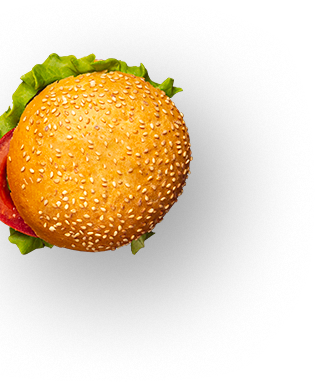
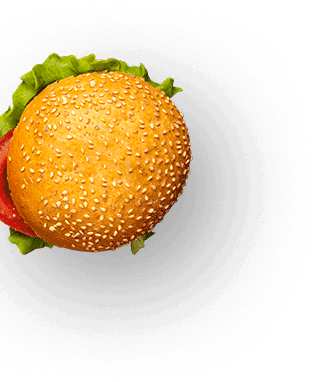
changes

diff --git a/index.html b/index.html
@@ -83,7 +83,7 @@
             <div class="row">
                 <div class="col-lg-6 product-left">
                     <div class="product-imgt imgd">
-                        <img src="images/Burger%20Image.png" alt="">
+                        <img src="images/Burger-Image.jpg" alt="">
                     </div>
                     <div class="product-content">
                         <h2>Try it today</h2>
@@ -92,7 +92,7 @@
                 </div>
                 <div class="col-lg-6 product-right">
                     <div class="product-item imgd">
-                        <img src="images/Image2.png" alt="">
+                        <img src="images/Image2.jpg" alt="">
                     </div>
 
                     <div class="product-content2">
@@ -101,7 +101,7 @@
                     </div>
 
                     <div class="product-item2 imgd">
-                        <img src="images/Image3.png" alt="">
+                        <img src="images/Image3.jpg" alt="">
                     </div>
 
                     <div class="product-content3">
@@ -149,7 +149,7 @@
 
                 <div class="col-lg-4 item-image">
                     <div class="item-imga">
-                        <img src="images/Burger3.png" alt="">
+                        <img src="images/Burger.png" alt="">
                     </div>
                     <h1>Lorem ipsum dolor</h1>
                     <p>Lorem ipsum dolor sit amet, consectetur adipiscing elit, sed do</p>
@@ -177,7 +177,7 @@
                                         <h2>Upcoming Events</h2>
                                         <p>Lorem ipsum dolor sit amet, consectetur adipiscing elit, sed do eiusmod tempor incididunt ut labore et dolore magna aliqua. Quis ipsum suspendisse ultrices gravida. Risus commodo viverra maecenas accumsan lacus vel facilisis.</p>
                                     </div>
-                                    <div class="col-md-6 col-12 "><img src="images/Burger4-Image.png" class="mx-auto" alt="slide"></div>
+                                    <div class="col-md-6 col-12 "><img src="images/Burger4-Image.jpg" class="mx-auto" alt="slide"></div>
                                 </div>
                             </div>
                         </div>
@@ -192,7 +192,7 @@
                                         <h2>Upcoming Events</h2>
                                         <p>Lorem ipsum dolor sit amet, consectetur adipiscing elit, sed do eiusmod tempor incididunt ut labore et dolore magna aliqua. Quis ipsum suspendisse ultrices gravida. Risus commodo viverra maecenas accumsan lacus vel facilisis.</p>
                                     </div>
-                                    <div class="col-md-6 col-12 "><img src="images/Burger4-Image.png" class="mx-auto" alt="slide"></div>
+                                    <div class="col-md-6 col-12 "><img src="images/Burger4-Image.jpg" class="mx-auto" alt="slide"></div>
                                 </div>
                             </div>
                         </div>
@@ -206,7 +206,7 @@
                                         <h2>Upcoming Events</h2>
                                         <p>Lorem ipsum dolor sit amet, consectetur adipiscing elit, sed do eiusmod tempor incididunt ut labore et dolore magna aliqua. Quis ipsum suspendisse ultrices gravida. Risus commodo viverra maecenas accumsan lacus vel facilisis.</p>
                                     </div>
-                                    <div class="col-md-6 col-12 "><img src="images/Burger4-Image.png" class="mx-auto" alt="slide"></div>
+                                    <div class="col-md-6 col-12 "><img src="images/Burger4-Image.jpg"  class="mx-auto" alt="slide"></div>
                                 </div>
                             </div>
                         </div>

diff --git a/css/style.css b/css/style.css
@@ -5,7 +5,7 @@
 
 /*Header Start*/
 #header {
-    background: url(../images/Rectangle.png);
+    background: url(../images/header-bg.jpg) #FFC135;
     background-position: center;
     background-repeat: no-repeat;
     background-size: cover;
@@ -488,7 +488,7 @@ product-item {
 
 /*Footer Part Start*/
 #footer {
-    background: url(../images/footer-bg.png);
+    background: url(../images/footer-bg.jpg) #42200b;
     background-position: center;
     background-repeat: no-repeat;
     background-size: cover;
